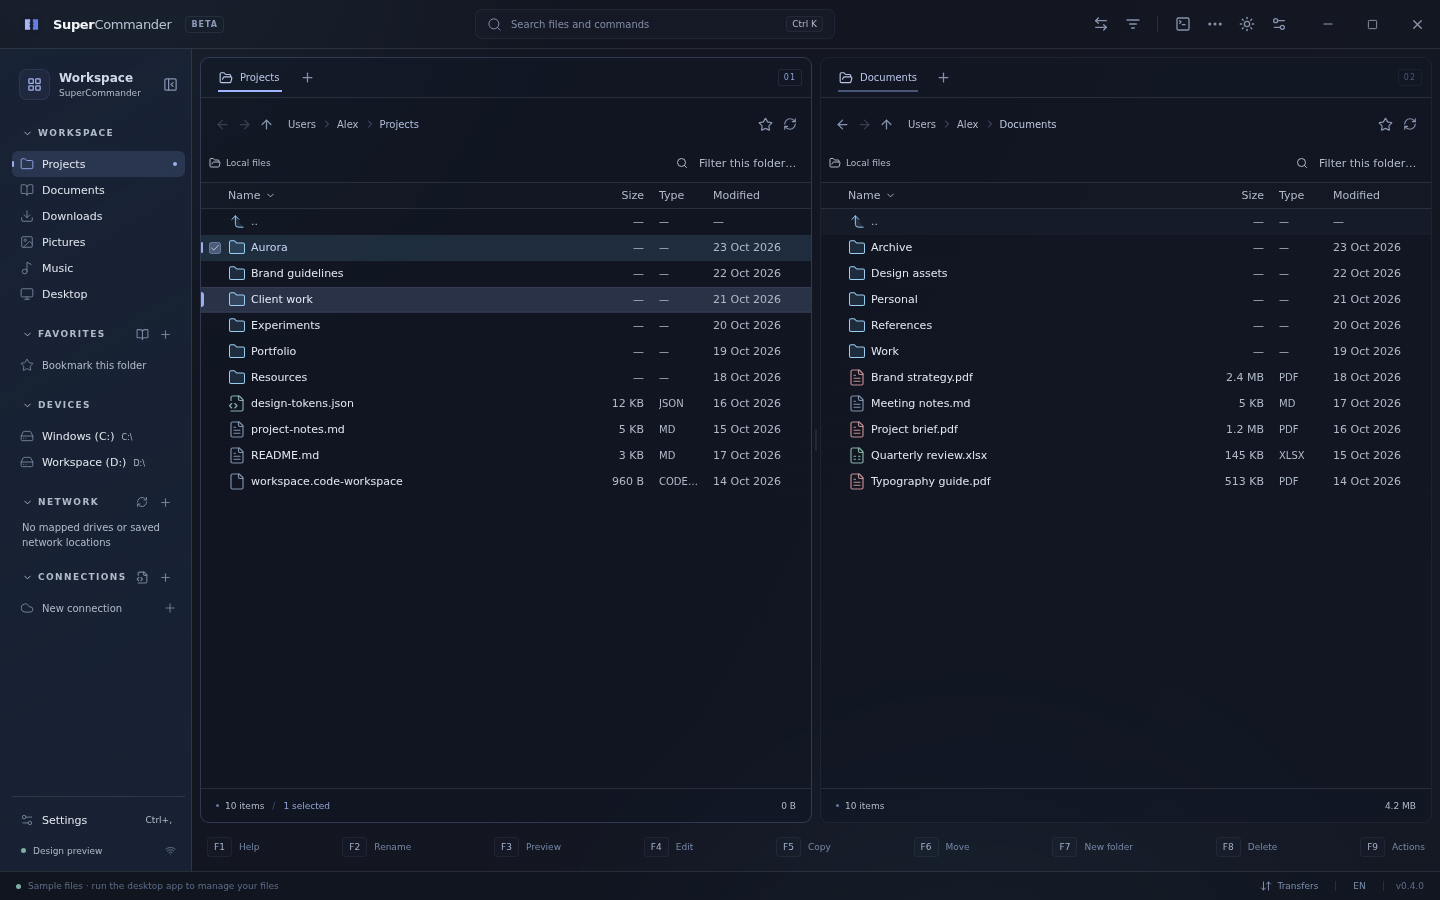
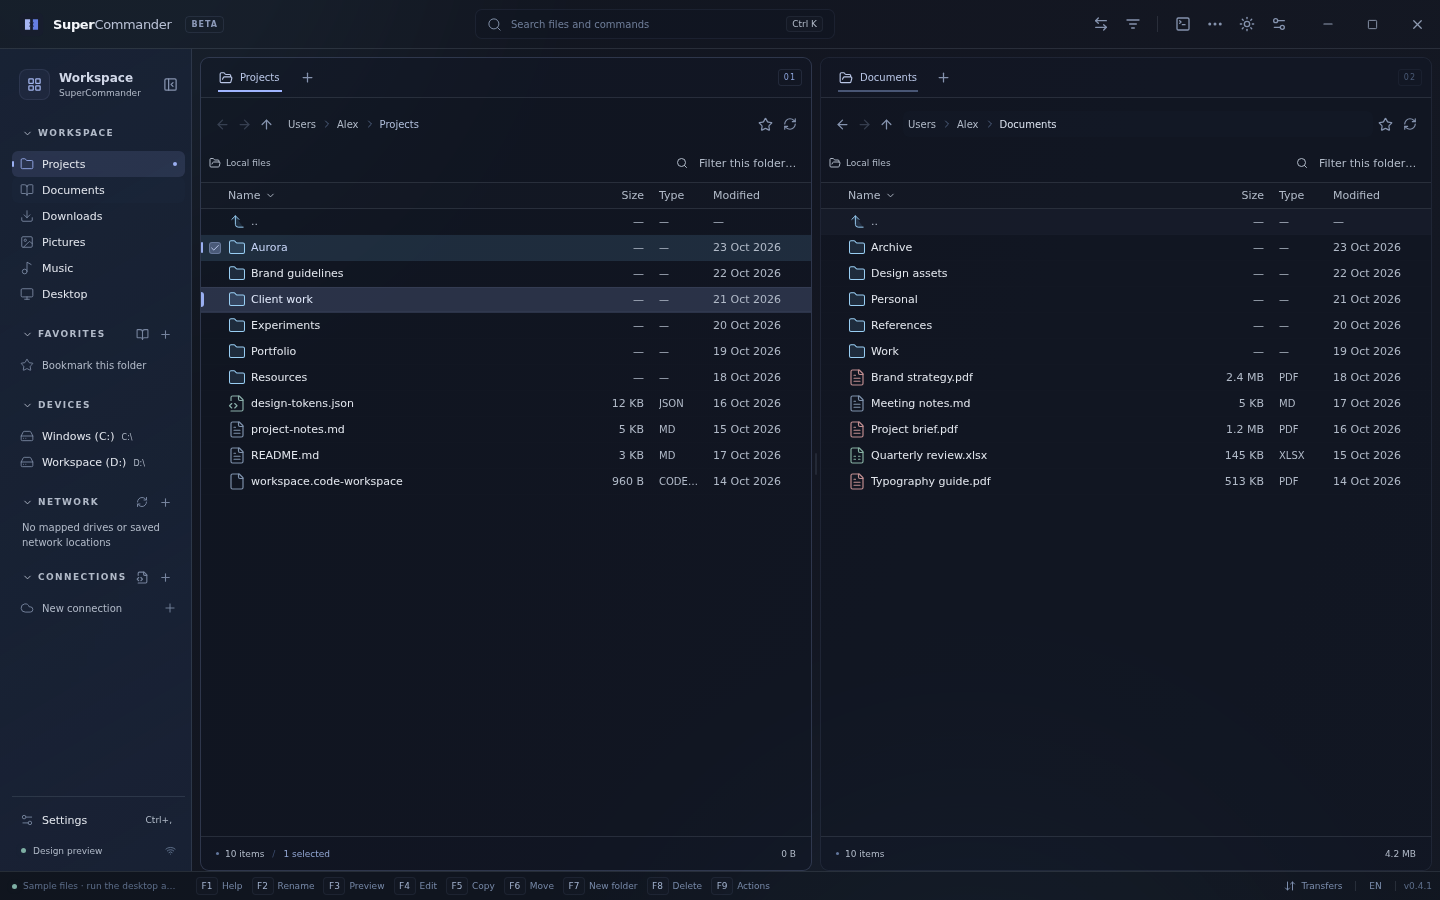
Release 0.4.1 with compact status shortcuts and terminal fix

diff --git a/src/styles.css b/src/styles.css
@@ -131,6 +131,7 @@ p {
   background: #a9b9dc45;
 }
 .app-shell {
+  --workspace-width: 192px;
   position: relative;
   isolation: isolate;
   height: 100%;
@@ -304,8 +305,8 @@ p {
   min-height: 0;
 }
 .sidebar {
-  width: 192px;
-  min-width: 192px;
+  width: var(--workspace-width);
+  min-width: var(--workspace-width);
   border-right: 1px solid var(--line);
   display: flex;
   flex-direction: column;
@@ -1436,55 +1437,78 @@ p {
   color: #91a5d2;
 }
 .shortcut-bar {
-  height: 48px;
-  min-height: 48px;
   display: flex;
+  flex: 1 1 auto;
+  min-width: 0;
+  height: 100%;
   align-items: center;
-  justify-content: space-between;
-  gap: 2px;
+  gap: 1px;
 }
 .shortcut-bar > button,
 .shortcut-bar .shortcut-action {
   font-size: 9px;
   color: #7688a7;
-  padding: 6px 7px;
-  gap: 7px;
+  min-width: 0;
+  padding: 3px 4px;
+  gap: 4px;
+}
+.shortcut-bar > button,
+.shortcut-bar > .menu-anchor {
+  flex: 0 1 auto;
+  min-width: 0;
+}
+.shortcut-bar .shortcut-action {
+  width: auto;
+}
+.shortcut-bar button > span {
+  overflow: hidden;
+  text-overflow: ellipsis;
+  white-space: nowrap;
 }
 .shortcut-bar kbd {
   font-size: 9px;
-  min-width: 25px;
+  min-width: 22px;
+  flex: none;
   text-align: center;
   background: #9aadde05;
   border-color: #9aadde16;
   color: #a1b1cd;
-  padding: 4px;
-}
-.shortcut-bar .icon-button {
-  margin-left: auto;
+  padding: 3px;
 }
 .statusbar {
   height: 29px;
   min-height: 29px;
-  display: flex;
+  display: grid;
+  grid-template-columns: var(--workspace-width) minmax(0, 1fr) auto;
   align-items: center;
-  justify-content: space-between;
   border-top: 1px solid var(--line);
-  padding: 0 16px;
+  padding: 0 8px 0 0;
   background: #0b111a45;
   font-size: 9px;
   color: #5c6d89;
 }
-.statusbar > span {
+.statusbar .status-message {
   display: flex;
   align-items: center;
-  gap: 7px;
+  gap: 6px;
+  grid-column: 1;
+  min-width: 0;
+  max-width: 100%;
+  padding: 0 12px;
 }
-.statusbar > div {
+.statusbar .shortcut-bar { grid-column: 2; }
+.status-message > span:not(.status-led) {
+  overflow: hidden;
+  text-overflow: ellipsis;
+  white-space: nowrap;
+}
+.statusbar .status-controls {
   display: flex;
   align-items: center;
-  gap: 12px;
+  grid-column: 3;
+  gap: 8px;
 }
-.statusbar button {
+.status-controls button {
   font-size: 9px;
   padding: 3px 5px;
   color: #7c8eae;
@@ -2252,6 +2276,8 @@ p {
 .terminal-mount {
   flex: 1;
   min-height: 0;
+}
+.terminal-mount > .xterm {
   padding: 10px 14px;
 }
 .terminal-notice {
@@ -2342,10 +2368,7 @@ p {
   }
 }
 @media (min-width: 1600px) {
-  .sidebar {
-    width: 208px;
-    min-width: 208px;
-  }
+  .app-shell { --workspace-width: 208px; }
   .file-row {
     font-size: 12px;
   }
@@ -2364,9 +2387,8 @@ p {
   }
 }
 @media (max-width: 1150px) {
+  .app-shell { --workspace-width: 170px; }
   .sidebar {
-    width: 170px;
-    min-width: 170px;
     padding-left: 8px;
     padding-right: 4px;
   }
@@ -2400,8 +2422,8 @@ p {
   }
   .shortcut-bar > button,
   .shortcut-bar .shortcut-action {
-    padding: 5px 4px;
-    gap: 4px;
+    padding: 3px 2px;
+    gap: 3px;
   }
   .shortcut-bar kbd {
     font-size: 8px;
@@ -2432,6 +2454,7 @@ p {
     font-size: 8px;
   }
 }
+.app-shell[data-workspace-collapsed="true"] { --workspace-width: 54px; }
 @media (prefers-reduced-motion: reduce) {
   *,
   *:before,

diff --git a/src/App.tsx b/src/App.tsx
@@ -2588,34 +2588,15 @@ export function App() {
               onRecovery={(location, key) => openRecovery(location, key)}
             />
           )}
-          <div className="shortcut-bar" hidden={terminalView === "full"}>
-            {[
-              ["F1", t.help, () => setDialog({ kind: "shortcuts" })],
-              ["F2", t.rename, rename],
-              ["F3", t.preview, preview],
-              ["F4", t.edit, edit],
-              ["F5", t.copy, () => action("copy")],
-              ["F6", t.move, () => action("move")],
-              ["F7", t.mkdir, () => action("mkdir")],
-              ["F8", t.delete, () => action("trash")],
-            ].map(([key, label, run]) => (
-              <button
-                key={String(key)}
-                data-tooltip={label as string}
-                data-shortcut={key as string}
-                onClick={run as () => void}
-              >
-                <kbd>{key as string}</kbd>
-                <span>{label as string}</span>
-              </button>
-            ))}
-            <ActionsMenuButton t={t} actions={actions} footer />
-          </div>
         </main>
       </div>
       <footer className="statusbar">
         {clipboardProgress ? (
-          <div className="clipboard-check" role="status">
+          <div
+            className="status-message clipboard-check"
+            role="status"
+            data-tooltip={`${t.checkingClipboard} ${basename(clipboardProgress.current)}`}
+          >
             <LoaderCircle size={12} className="spin" />
             <span>
               {t.checkingClipboard} {basename(clipboardProgress.current)}
@@ -2631,12 +2612,38 @@ export function App() {
             </IconButton>
           </div>
         ) : (
-          <span>
+          <div
+            className="status-message"
+            data-tooltip={api.desktop ? t.ready : t.demoHint}
+          >
             <span className="status-led" />
-            {api.desktop ? t.ready : t.demoHint}
-          </span>
+            <span>{api.desktop ? t.ready : t.demoHint}</span>
+          </div>
         )}
-        <div>
+        <div className="shortcut-bar" hidden={terminalView === "full"}>
+          {[
+            ["F1", t.help, () => setDialog({ kind: "shortcuts" })],
+            ["F2", t.rename, rename],
+            ["F3", t.preview, preview],
+            ["F4", t.edit, edit],
+            ["F5", t.copy, () => action("copy")],
+            ["F6", t.move, () => action("move")],
+            ["F7", t.mkdir, () => action("mkdir")],
+            ["F8", t.delete, () => action("trash")],
+          ].map(([key, label, run]) => (
+            <button
+              key={String(key)}
+              data-tooltip={label as string}
+              data-shortcut={key as string}
+              onClick={run as () => void}
+            >
+              <kbd>{key as string}</kbd>
+              <span>{label as string}</span>
+            </button>
+          ))}
+          <ActionsMenuButton t={t} actions={actions} footer />
+        </div>
+        <div className="status-controls">
           <button onClick={() => setQueueOpen((v) => !v)}>
             <ArrowDownUp size={12} />
             {t.queue}

diff --git a/tests/ui/keyboard.spec.ts b/tests/ui/keyboard.spec.ts
@@ -132,11 +132,20 @@ test("footer F1 and F9 buttons open help and actions above the bar", async ({
     await expect(buttons).toHaveCount(9);
     const left = (await bar.boundingBox())!.x;
     const right = left + (await bar.boundingBox())!.width;
+    const sidebar = (await page.locator(".sidebar").boundingBox())!;
+    expect(left).toBeCloseTo(sidebar.x + sidebar.width, 0);
+    let previousRight = left;
     for (const button of await buttons.all()) {
       const box = (await button.boundingBox())!;
       expect(box.x).toBeGreaterThanOrEqual(left);
       expect(box.x + box.width).toBeLessThanOrEqual(right + 1);
+      expect(box.x - previousRight).toBeLessThanOrEqual(3);
+      previousRight = box.x + box.width;
     }
+    for (const label of await bar.locator("button > span").all())
+      expect(
+        await label.evaluate((el) => el.scrollWidth <= el.clientWidth),
+      ).toBe(true);
     await bar.getByRole("button", { name: /Help/ }).click();
     await expect(
       page.getByRole("dialog", { name: "Keyboard shortcuts" }),
@@ -154,6 +163,18 @@ test("footer F1 and F9 buttons open help and actions above the bar", async ({
     await page.keyboard.press("Escape");
     await expect(actions).toBeFocused();
   }
+  await page.setViewportSize({ width: 960, height: 700 });
+  await page
+    .locator(".toolbar-right")
+    .getByRole("button", { name: "Settings" })
+    .click();
+  await page.getByRole("combobox", { name: "Language" }).click();
+  await page.getByRole("option", { name: "Eesti", exact: true }).click();
+  await page.keyboard.press("Escape");
+  for (const label of await page.locator(".shortcut-bar button > span").all())
+    expect(await label.evaluate((el) => el.scrollWidth <= el.clientWidth)).toBe(
+      true,
+    );
 });
 
 test("F9 exposes comparison and recovery with their shortcuts", async ({

diff --git a/tests/ui/workspace.spec.ts b/tests/ui/workspace.spec.ts
@@ -479,7 +479,22 @@ test("layout stays within the window at supported sizes", async ({ page }) => {
     const tools = await page.locator(".titlebar-tools").boundingBox();
     expect(search!.x + search!.width).toBeLessThanOrEqual(tools!.x);
     await expect(page.locator(".shortcut-bar")).toBeVisible();
+    const footer = (await page.locator(".statusbar").boundingBox())!;
+    const shortcuts = (await page
+      .locator(".statusbar .shortcut-bar")
+      .boundingBox())!;
+    const controls = (await page.locator(".status-controls").boundingBox())!;
+    expect(shortcuts.y).toBeGreaterThanOrEqual(footer.y);
+    expect(shortcuts.y + shortcuts.height).toBeLessThanOrEqual(
+      footer.y + footer.height,
+    );
+    expect(shortcuts.x + shortcuts.width).toBeLessThanOrEqual(controls.x);
+    expect(bounds!.y + bounds!.height).toBeGreaterThanOrEqual(footer.y - 1);
   }
+  await page.getByRole("button", { name: "Collapse workspace" }).click();
+  const rail = (await page.locator(".sidebar").boundingBox())!;
+  const shortcuts = (await page.locator(".shortcut-bar").boundingBox())!;
+  expect(shortcuts.x).toBeCloseTo(rail.x + rail.width, 0);
 });
 test("network locations can be added, renamed and removed, with a single rail tooltip", async ({
   page,

diff --git a/README.md b/README.md
@@ -6,13 +6,13 @@ Browse local drives, UNC paths, ZIP archives and SSH/SFTP servers. Work with fam
 
 ## Download
 
-The latest release is **[SuperCommander 0.4.0](https://github.com/rihokirss/SuperCommander/releases/tag/v0.4.0)**.
+The latest release is **[SuperCommander 0.4.1](https://github.com/rihokirss/SuperCommander/releases/tag/v0.4.1)**.
 
-Version 0.4.0 adds faster startup, selectable blue and dark red palettes, a category-based F1 reference, next-match quick finding and folder sizes in the file list. It includes keyboard-accessible menus, bookmarks, file properties, native file clipboard support, quick editing, content search, reviewed folder synchronization, recovery of saved copies and safe ZIP operations.
+Version 0.4.1 fixes clipped terminal rows and puts compact F-key buttons on the status bar. Version 0.4.0 adds faster startup, selectable blue and dark red palettes, a category-based F1 reference, next-match quick finding and folder sizes in the file list. It includes keyboard-accessible menus, bookmarks, file properties, native file clipboard support, quick editing, content search, reviewed folder synchronization, recovery of saved copies and safe ZIP operations.
 
-- [Windows x64 installer](https://github.com/rihokirss/SuperCommander/releases/download/v0.4.0/SuperCommander_0.4.0_x64-setup.exe) — recommended.
-- [Standalone Windows x64 executable](https://github.com/rihokirss/SuperCommander/releases/download/v0.4.0/SuperCommander_0.4.0_x64.exe) — requires WebView2.
-- [SHA-256 checksums](https://github.com/rihokirss/SuperCommander/releases/download/v0.4.0/SHA256SUMS.txt).
+- [Windows x64 installer](https://github.com/rihokirss/SuperCommander/releases/download/v0.4.1/SuperCommander_0.4.1_x64-setup.exe) — recommended.
+- [Standalone Windows x64 executable](https://github.com/rihokirss/SuperCommander/releases/download/v0.4.1/SuperCommander_0.4.1_x64.exe) — requires WebView2.
+- [SHA-256 checksums](https://github.com/rihokirss/SuperCommander/releases/download/v0.4.1/SHA256SUMS.txt).
 
 ## Screenshots
 
@@ -67,7 +67,7 @@ npm run build:windows
 `cargo-xwin` downloads the Windows SDK and CRT. Outputs:
 
 - `target/x86_64-pc-windows-msvc/release/supercommander.exe`
-- `target/x86_64-pc-windows-msvc/release/bundle/nsis/SuperCommander_0.4.0_x64-setup.exe`
+- `target/x86_64-pc-windows-msvc/release/bundle/nsis/SuperCommander_0.4.1_x64-setup.exe`
 
 A successful cross-build does not replace testing the application on Windows.
 

diff --git a/docs/releases/v0.4.1.md b/docs/releases/v0.4.1.md
@@ -1,0 +1,13 @@
+SuperCommander 0.4.1 makes better use of the window and fixes a terminal display issue.
+
+- The F1–F9 buttons now share the bottom status bar and stay compact beside the workspace, giving the file panes more vertical space. Status, transfer and language controls remain available.
+- Terminal sizing now accounts for its padding, so the last row and right edge remain visible when the docked terminal is resized or switched to fullscreen.
+
+### Downloads
+
+- **SuperCommander_0.4.1_x64-setup.exe** — recommended Windows x64 installer; installs WebView2 if needed.
+- **SuperCommander_0.4.1_x64.exe** — standalone executable; requires WebView2.
+- **SHA256SUMS.txt** — download checksums.
+- **BUILDINFO.json** — source commit, Windows CI run and executable hashes.
+
+Builds are unsigned and automatic application updates are not implemented. See the [README](https://github.com/rihokirss/SuperCommander/tree/v0.4.1#readme) and the [dependency review](https://github.com/rihokirss/SuperCommander/blob/v0.4.1/docs/dependencies.md).
